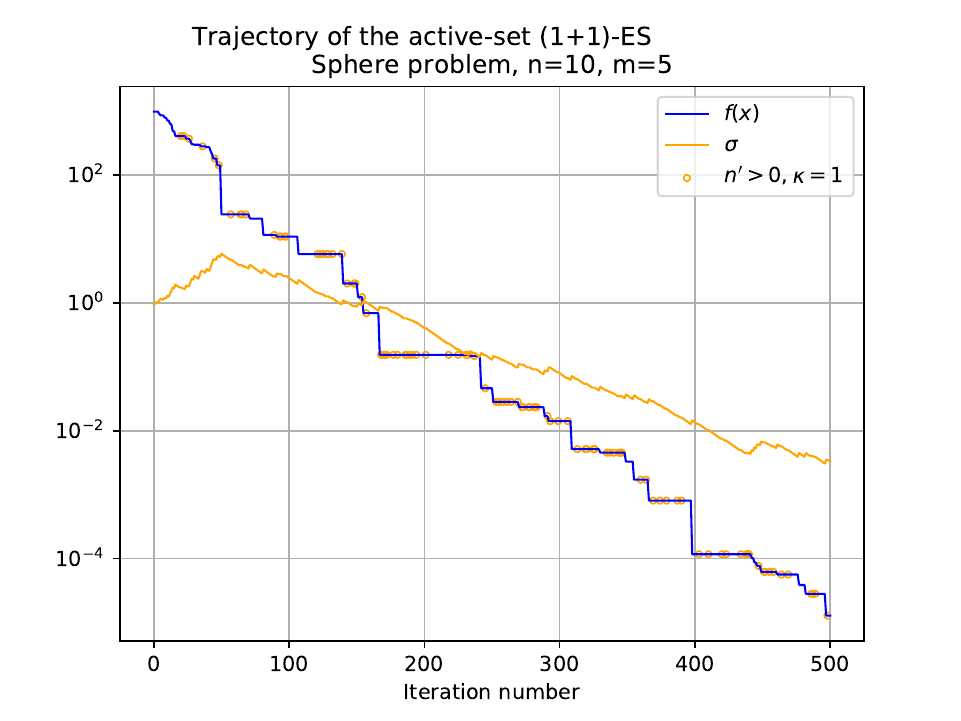
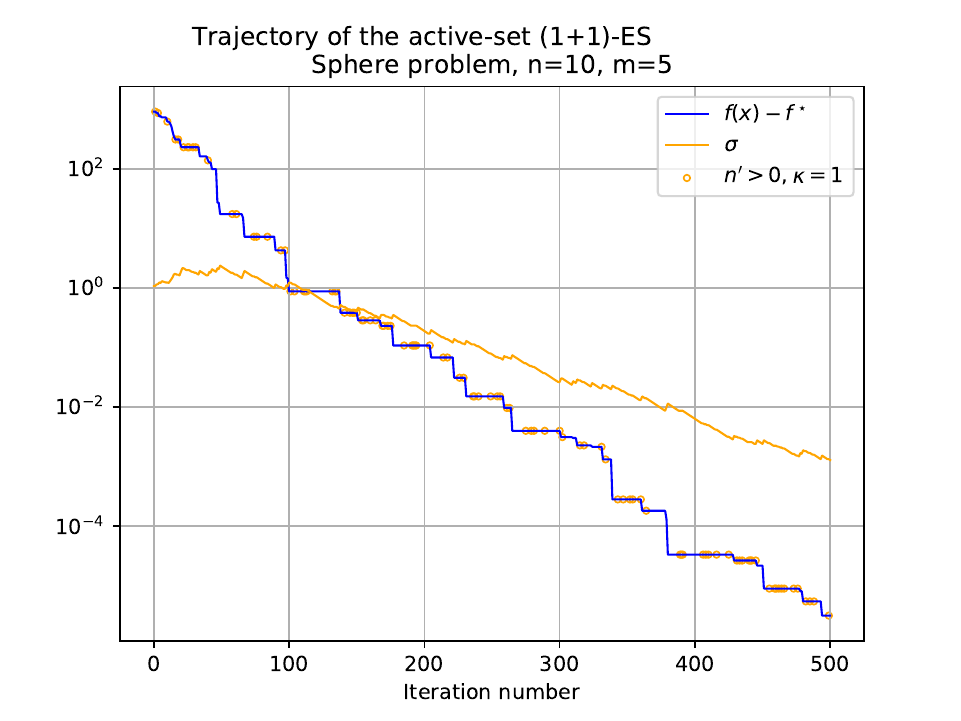
correct legend in sphere plot

Changed region(s): [[0.0624, 0.1526, 0.9053, 0.8544], [0.0624, 0.7018, 0.1249, 0.7933], [0.0624, 0.5492, 0.1249, 0.6103]]

diff --git a/actseteles/active_set_elitist_es.py b/actseteles/active_set_elitist_es.py
@@ -280,7 +280,7 @@ class ActiveSetElitistES:
         }
 
         plt.semilogy(self.rundata.index, self.rundata["fx"] - self.m,
-                     c="blue", label="$f(x)$", **plot_options)
+                     c="blue", label="$f(x) - f^\star$", **plot_options)
         plt.semilogy(self.rundata.index, self.rundata["sigma"],
                      c="orange", label="$\sigma$", **plot_options)
         plt.scatter(index_suspended,
